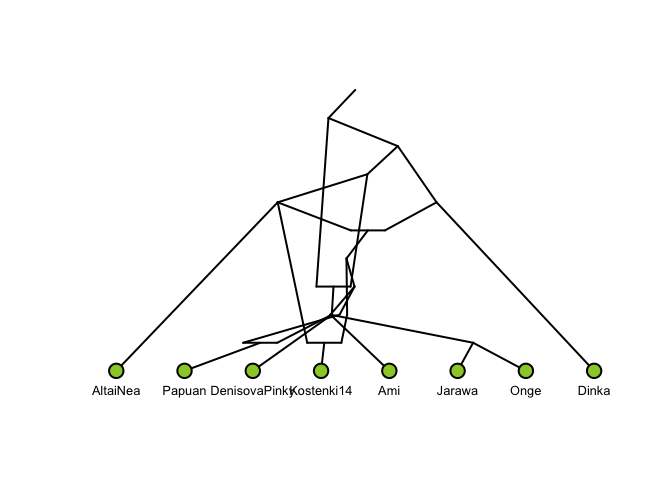
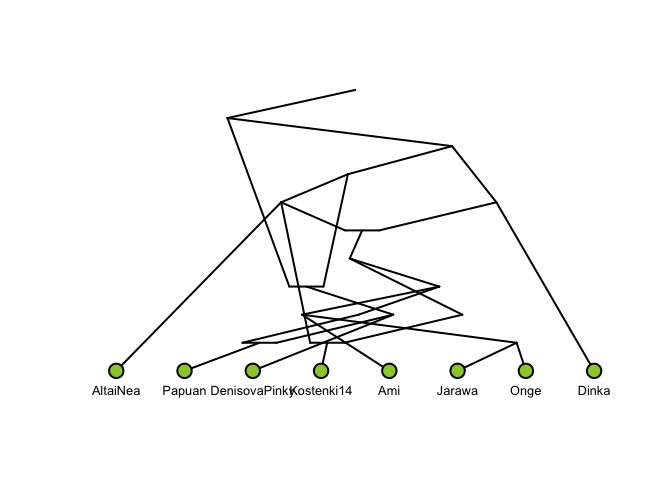
Handle graphs without admixture proportions

diff --git a/README.md b/README.md
@@ -18,9 +18,7 @@ Parsing a qpGraph file:
 test_graph <- readr::read_file("data-raw/Basic_OngeEA_wArch.graph")
 g <- graphparse::read_qpgraph(test_graph)
 plot(g)
-#> fminbnd:  Exiting: Maximum number of function evaluations has been exceeded
-#>          - increase MaxFunEvals option.
-#>          Current function value: 4411.21184093304
+#> fminbnd:  Exiting: No possible improvement of cost function.
 ```
 
 <img src="man/figures/README-pqgraph-1.png" width="100%" />
@@ -41,7 +39,7 @@ g <- graphparse::read_dot(test_graph)
 plot(g)
 #> fminbnd:  Exiting: Maximum number of function evaluations has been exceeded
 #>          - increase MaxFunEvals option.
-#>          Current function value: 9811.09667284432
+#>          Current function value: 9791.47157921373
 ```
 
 <img src="man/figures/README-dot-1.png" width="100%" />
@@ -52,4 +50,17 @@ attr(g, "admixture_proportions")
 #>                 0.49                 0.03                 0.01 
 #>       DenisovaAnc_P2 
 #>                 0.03
+```
+
+``` r
+test_graph <- readr::read_file("data-raw/test1.graph")
+g <- graphparse::read_qpgraph(test_graph)
+plot(g)
+```
+
+<img src="man/figures/README-unnamed-chunk-3-1.png" width="100%" />
+
+``` r
+attr(g, "admixture_proportions")
+#> numeric(0)
 ```
